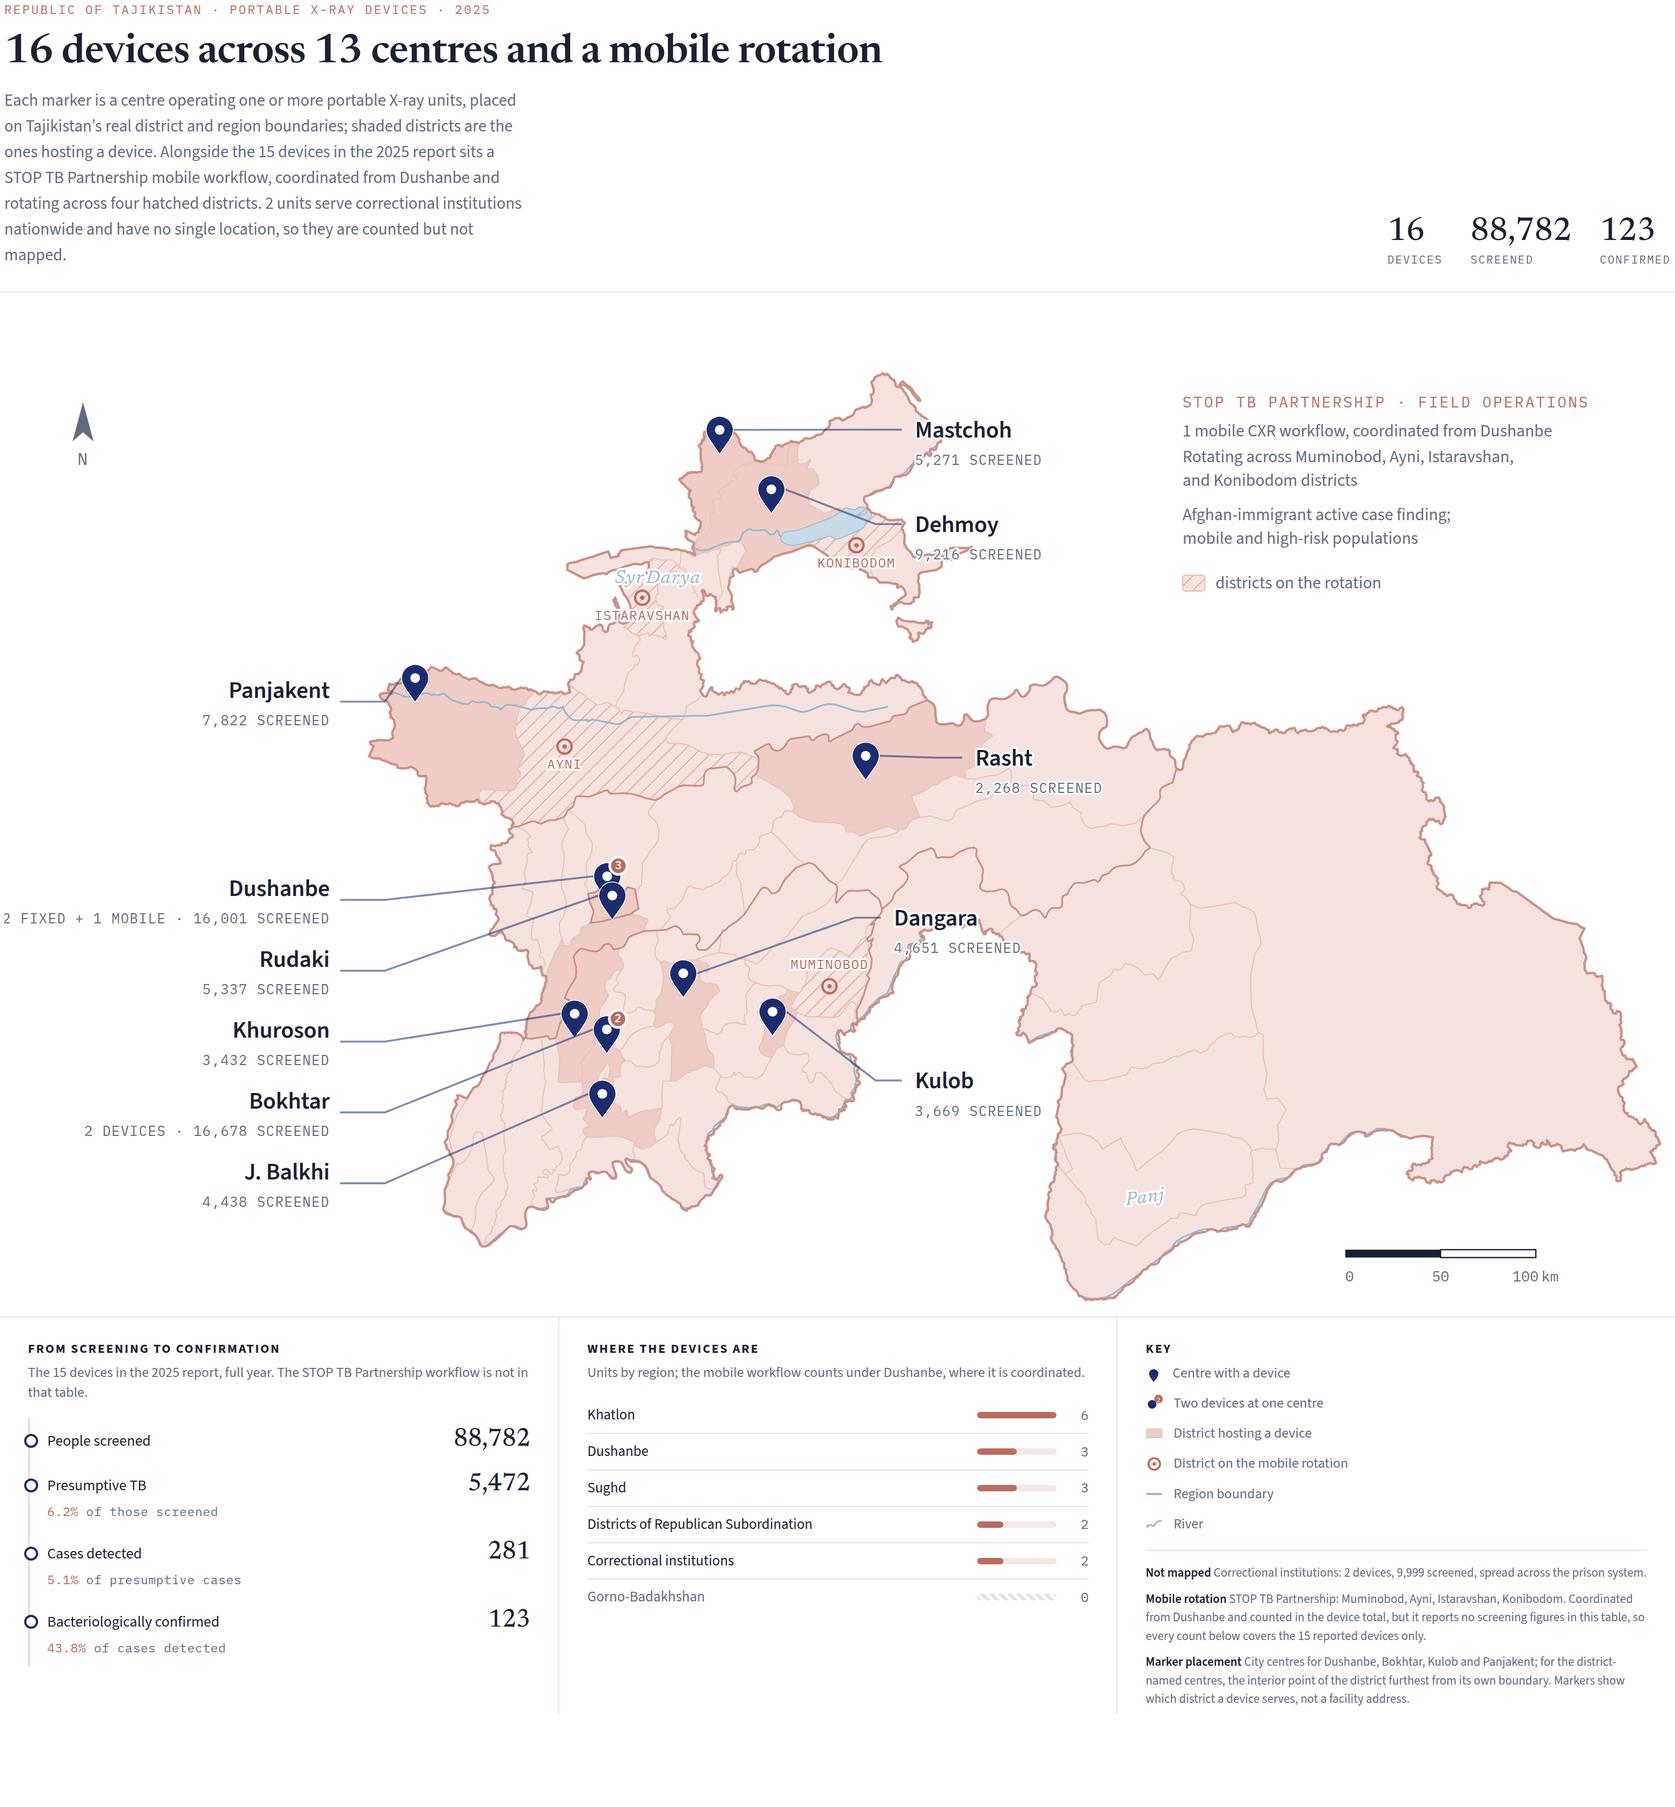
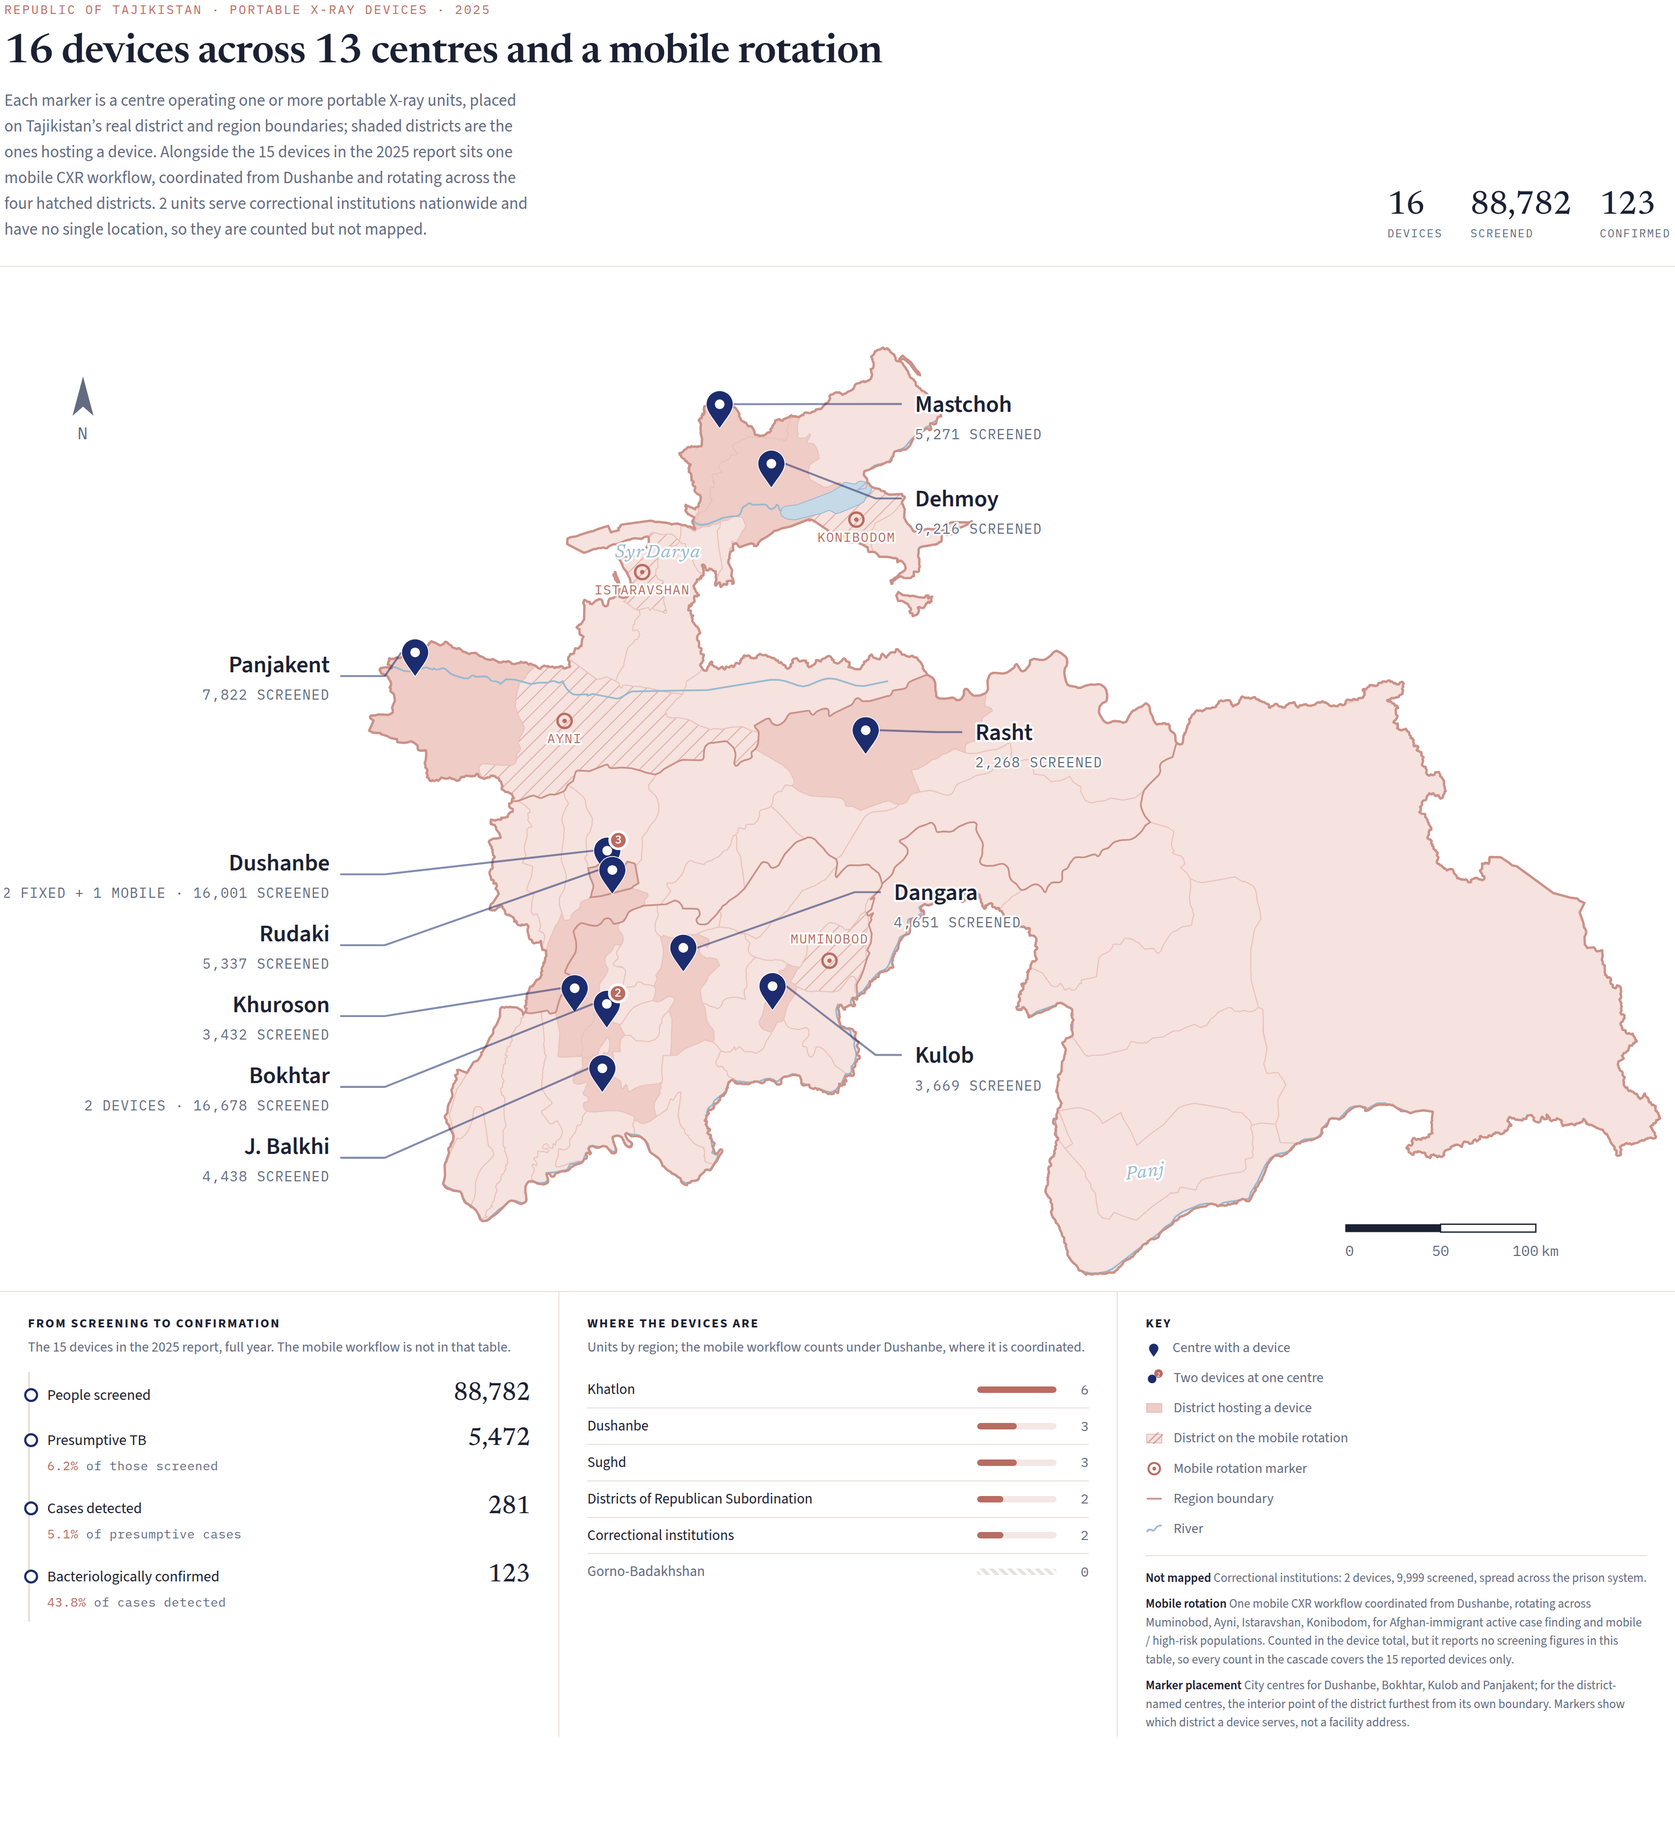
Drop partner attribution from the Tajikistan plate
Naming the funder of the mobile unit would oblige naming the funders of
the other 15, so the field-operations callout is gone from the map's
north-east corner and the partner name is out of the lede, the cascade
heading and the notes. The programme name stays in data/tj-sites.json for
reference but is never rendered.

The rotation still reads: four hatched districts with ring markers, both
now in the key, and the footer note carries the workflow's coverage and
its Afghan-immigrant and mobile / high-risk population focus.

Claude-Session: https://claude.ai/code/session_01T5yP7TBR6tDykaCEYoHf9x

diff --git a/tajikistan.html b/tajikistan.html
@@ -180,8 +180,8 @@ h1{margin:0;font-family:var(--serif);font-weight:600;font-size:clamp(27px,3.4vw,
         <h1>16 devices across 13 centres and a mobile rotation</h1>
         <p class="lede">Each marker is a centre operating one or more portable X-ray units, placed on
           Tajikistan&rsquo;s real district and region boundaries; shaded districts are the ones hosting a
-          device. Alongside the 15 devices in the 2025 report sits a STOP TB Partnership mobile
-          workflow, coordinated from Dushanbe and rotating across four hatched districts.
+          device. Alongside the 15 devices in the 2025 report sits one mobile CXR
+          workflow, coordinated from Dushanbe and rotating across the four hatched districts.
           2 units serve correctional institutions nationwide and have no single location,
           so they are counted but not mapped.</p>
       </div>
@@ -285,12 +285,6 @@ h1{margin:0;font-family:var(--serif);font-weight:600;font-size:clamp(27px,3.4vw,
   <g class="pin" transform="translate(315.5 512.6)"><circle class="halo" cy="-18" r="15"/><path class="pin-body" d="M0 0c-5.5-8-10-13-10-18a10 10 0 1 1 20 0C10-13 5.5-8 0 0Z"/><circle class="pin-eye" cy="-18" r="3.7"/></g>
 </g>
   <g class="rot-mark"><circle cx="358.9" cy="475.2" r="5.4"/><circle class="rot-dot" cx="358.9" cy="475.2" r="1.7"/><text class="rot-lbl" x="358.9" y="462.2">Muminobod</text></g><g class="rot-mark"><circle cx="157.0" cy="292.5" r="5.4"/><circle class="rot-dot" cx="157.0" cy="292.5" r="1.7"/><text class="rot-lbl" x="157.0" y="309.5">Ayni</text></g><g class="rot-mark"><circle cx="216.2" cy="179.1" r="5.4"/><circle class="rot-dot" cx="216.2" cy="179.1" r="1.7"/><text class="rot-lbl" x="216.2" y="196.1">Istaravshan</text></g><g class="rot-mark"><circle cx="379.4" cy="139.1" r="5.4"/><circle class="rot-dot" cx="379.4" cy="139.1" r="1.7"/><text class="rot-lbl" x="379.4" y="156.1">Konibodom</text></g>
-  <g class="callout" transform="translate(628 34)">
-  <text class="callout-h" x="0" y="0">STOP TB Partnership &#183; field operations</text>
-  <text class="callout-t" x="0" y="22">1 mobile CXR workflow, coordinated from Dushanbe</text><text class="callout-t" x="0" y="42">Rotating across Muminobod, Ayni, Istaravshan,</text><text class="callout-t" x="0" y="60">and Konibodom districts</text><text class="callout-t" x="0" y="86">Afghan-immigrant active case finding;</text><text class="callout-t" x="0" y="104">mobile and high-risk populations</text>
-  <rect class="rot-swatch" x="0" y="128" width="17" height="12" rx="2"/>
-  <text class="callout-t" x="25" y="138">districts on the rotation</text>
-</g>
   <g class="furniture">
     <g transform="translate(-210 52)">
       <path class="compass" d="M0-22 8 8 0 1-8 8Z"/><text class="compass-n" x="0" y="26">N</text>
@@ -310,7 +304,7 @@ h1{margin:0;font-family:var(--serif);font-weight:600;font-size:clamp(27px,3.4vw,
     <div class="panels">
       <section class="panel">
         <h2>From screening to confirmation</h2>
-        <p class="hint">The 15 devices in the 2025 report, full year. The STOP TB Partnership workflow is not in that table.</p>
+        <p class="hint">The 15 devices in the 2025 report, full year. The mobile workflow is not in that table.</p>
         <div class="step"><span class="step-l">People screened</span><span class="step-v">88,782</span></div><div class="step"><span class="step-l">Presumptive TB</span><span class="step-v">5,472</span><span class="rate">6.2%<em> of those screened</em></span></div><div class="step"><span class="step-l">Cases detected</span><span class="step-v">281</span><span class="rate">5.1%<em> of presumptive cases</em></span></div><div class="step"><span class="step-l">Bacteriologically confirmed</span><span class="step-v">123</span><span class="rate">43.8%<em> of cases detected</em></span></div>
       </section>
 
@@ -326,16 +320,18 @@ h1{margin:0;font-family:var(--serif);font-weight:600;font-size:clamp(27px,3.4vw,
           <li><svg width="15" height="19" viewBox="-8 -32 16 34" aria-hidden="true"><path d="M0 0c-7.2-10.4-13-17-13-23.5a13 13 0 1 1 26 0C13-17 7.2-10.4 0 0Z" fill="var(--mark)" transform="scale(.6)"/></svg> Centre with a device</li>
           <li><svg width="16" height="16" viewBox="0 0 16 16" aria-hidden="true"><circle cx="6" cy="9" r="4" fill="var(--mark)"/><circle cx="12" cy="4" r="4" fill="var(--clay)"/><text x="12" y="7" font-size="6" fill="var(--card)" text-anchor="middle">2</text></svg> Two devices at one centre</li>
           <li><svg width="16" height="16" viewBox="0 0 16 16" aria-hidden="true"><rect x="1" y="4" width="14" height="8" fill="var(--land-site)" stroke="var(--district)"/></svg> District hosting a device</li>
-          <li><svg width="16" height="16" viewBox="0 0 16 16" aria-hidden="true"><circle cx="8" cy="8" r="5.4" fill="none" stroke="var(--clay)" stroke-width="1.8"/><circle cx="8" cy="8" r="1.7" fill="var(--clay)"/></svg> District on the mobile rotation</li>
+          <li><svg width="16" height="16" viewBox="0 0 16 16" aria-hidden="true"><rect x="1" y="4" width="14" height="8" fill="#F6E2DE" stroke="var(--district)"/><path d="M2 12 12 2M7 13 16 4" stroke="var(--clay)" stroke-width="1.2" opacity=".55"/></svg> District on the mobile rotation</li>
+          <li><svg width="16" height="16" viewBox="0 0 16 16" aria-hidden="true"><circle cx="8" cy="8" r="5.4" fill="none" stroke="var(--clay)" stroke-width="1.8"/><circle cx="8" cy="8" r="1.7" fill="var(--clay)"/></svg> Mobile rotation marker</li>
           <li><svg width="16" height="16" viewBox="0 0 16 16" aria-hidden="true"><path d="M1 8h14" stroke="var(--region)" stroke-width="1.6"/></svg> Region boundary</li>
           <li><svg width="16" height="16" viewBox="0 0 16 16" aria-hidden="true"><path d="M1 11c4-6 5 2 8-3 1.5-2.5 3-3 6-3" stroke="var(--water-line)" stroke-width="1.6" fill="none"/></svg> River</li>
         </ul>
         <div class="notes">
           <p><b>Not mapped</b> Correctional institutions: 2 devices,
             9,999 screened, spread across the prison system.</p>
-          <p><b>Mobile rotation</b> STOP TB Partnership: Muminobod, Ayni, Istaravshan, Konibodom. Coordinated from Dushanbe and counted
-            in the device total, but it reports no screening figures in this table, so every count below
-            covers the 15 reported devices only.</p>
+          <p><b>Mobile rotation</b> One mobile CXR workflow coordinated from Dushanbe, rotating across
+            Muminobod, Ayni, Istaravshan, Konibodom, for Afghan-immigrant active case finding and mobile / high-risk populations.
+            Counted in the device total, but it reports no screening figures in this table, so every
+            count in the cascade covers the 15 reported devices only.</p>
           <p><b>Marker placement</b> City centres for Dushanbe, Bokhtar, Kulob and Panjakent; for the
             district-named centres, the interior point of the district furthest from its own boundary.
             Markers show which district a device serves, not a facility address.</p>

diff --git a/tools/template_tj.html b/tools/template_tj.html
@@ -180,8 +180,8 @@ h1{margin:0;font-family:var(--serif);font-weight:600;font-size:clamp(27px,3.4vw,
         <h1>$devices devices across $centres centres and a mobile rotation</h1>
         <p class="lede">Each marker is a centre operating one or more portable X-ray units, placed on
           Tajikistan&rsquo;s real district and region boundaries; shaded districts are the ones hosting a
-          device. Alongside the $reported_devices devices in the 2025 report sits a $programme mobile
-          workflow, coordinated from $rot_base and rotating across four hatched districts.
+          device. Alongside the $reported_devices devices in the 2025 report sits one mobile CXR
+          workflow, coordinated from $rot_base and rotating across the four hatched districts.
           $unmapped_devices units serve correctional institutions nationwide and have no single location,
           so they are counted but not mapped.</p>
       </div>
@@ -200,7 +200,7 @@ h1{margin:0;font-family:var(--serif);font-weight:600;font-size:clamp(27px,3.4vw,
     <div class="panels">
       <section class="panel">
         <h2>From screening to confirmation</h2>
-        <p class="hint">The $reported_devices devices in the 2025 report, full year. The $programme workflow is not in that table.</p>
+        <p class="hint">The $reported_devices devices in the 2025 report, full year. The mobile workflow is not in that table.</p>
         $cascade
       </section>
 
@@ -216,16 +216,18 @@ h1{margin:0;font-family:var(--serif);font-weight:600;font-size:clamp(27px,3.4vw,
           <li><svg width="15" height="19" viewBox="-8 -32 16 34" aria-hidden="true"><path d="M0 0c-7.2-10.4-13-17-13-23.5a13 13 0 1 1 26 0C13-17 7.2-10.4 0 0Z" fill="var(--mark)" transform="scale(.6)"/></svg> Centre with a device</li>
           <li><svg width="16" height="16" viewBox="0 0 16 16" aria-hidden="true"><circle cx="6" cy="9" r="4" fill="var(--mark)"/><circle cx="12" cy="4" r="4" fill="var(--clay)"/><text x="12" y="7" font-size="6" fill="var(--card)" text-anchor="middle">2</text></svg> Two devices at one centre</li>
           <li><svg width="16" height="16" viewBox="0 0 16 16" aria-hidden="true"><rect x="1" y="4" width="14" height="8" fill="var(--land-site)" stroke="var(--district)"/></svg> District hosting a device</li>
-          <li><svg width="16" height="16" viewBox="0 0 16 16" aria-hidden="true"><circle cx="8" cy="8" r="5.4" fill="none" stroke="var(--clay)" stroke-width="1.8"/><circle cx="8" cy="8" r="1.7" fill="var(--clay)"/></svg> District on the mobile rotation</li>
+          <li><svg width="16" height="16" viewBox="0 0 16 16" aria-hidden="true"><rect x="1" y="4" width="14" height="8" fill="#F6E2DE" stroke="var(--district)"/><path d="M2 12 12 2M7 13 16 4" stroke="var(--clay)" stroke-width="1.2" opacity=".55"/></svg> District on the mobile rotation</li>
+          <li><svg width="16" height="16" viewBox="0 0 16 16" aria-hidden="true"><circle cx="8" cy="8" r="5.4" fill="none" stroke="var(--clay)" stroke-width="1.8"/><circle cx="8" cy="8" r="1.7" fill="var(--clay)"/></svg> Mobile rotation marker</li>
           <li><svg width="16" height="16" viewBox="0 0 16 16" aria-hidden="true"><path d="M1 8h14" stroke="var(--region)" stroke-width="1.6"/></svg> Region boundary</li>
           <li><svg width="16" height="16" viewBox="0 0 16 16" aria-hidden="true"><path d="M1 11c4-6 5 2 8-3 1.5-2.5 3-3 6-3" stroke="var(--water-line)" stroke-width="1.6" fill="none"/></svg> River</li>
         </ul>
         <div class="notes">
           <p><b>Not mapped</b> Correctional institutions: $unmapped_devices devices,
             $unmapped_screened screened, spread across the prison system.</p>
-          <p><b>Mobile rotation</b> $programme: $rot_districts. Coordinated from $rot_base and counted
-            in the device total, but it reports no screening figures in this table, so every count below
-            covers the $reported_devices reported devices only.</p>
+          <p><b>Mobile rotation</b> One mobile CXR workflow coordinated from $rot_base, rotating across
+            $rot_districts, for Afghan-immigrant active case finding and mobile / high-risk populations.
+            Counted in the device total, but it reports no screening figures in this table, so every
+            count in the cascade covers the $reported_devices reported devices only.</p>
           <p><b>Marker placement</b> City centres for Dushanbe, Bokhtar, Kulob and Panjakent; for the
             district-named centres, the interior point of the district furthest from its own boundary.
             Markers show which district a device serves, not a facility address.</p>

diff --git a/tools/build_tj_map.py b/tools/build_tj_map.py
@@ -102,21 +102,6 @@ for d in ROT["districts"]:
         f'<circle class="rot-dot" cx="{d["x"]:.1f}" cy="{d["y"]:.1f}" r="1.7"/>'
         f'<text class="rot-lbl" x="{d["x"] + dx:.1f}" y="{d["y"] + dy:.1f}">{esc(d["name"])}</text></g>')
 
-cx, cy = 628, 34
-callout_lines = [
-    (0, f'{ROT["devices"]} mobile CXR workflow, coordinated from {ROT["base"]}'),
-    (20, "Rotating across " + ", ".join(d["name"] for d in ROT["districts"][:3]) + ","),
-    (38, "and " + ROT["districts"][3]["name"] + " districts"),
-    (64, "Afghan-immigrant active case finding;"),
-    (82, "mobile and high-risk populations"),
-]
-callout = f'''<g class="callout" transform="translate({cx} {cy})">
-  <text class="callout-h" x="0" y="0">{esc(ROT["programme"])} &#183; field operations</text>
-  {"".join(f'<text class="callout-t" x="0" y="{22 + dy}">{esc(t)}</text>' for dy, t in callout_lines)}
-  <rect class="rot-swatch" x="0" y="128" width="17" height="12" rx="2"/>
-  <text class="callout-t" x="25" y="138">districts on the rotation</text>
-</g>'''
-
 km_bar = 100 / NAT["kmPerPt"]
 lakes = "".join(f'<path class="lake" d="{l["d"]}"/>' for l in NAT["lakes"])
 national = f'''<svg class="map-svg" viewBox="-{GUTTER} -42 {NAT["width"] + GUTTER:.0f} {NAT["height"] + 42:.0f}"
@@ -145,7 +130,6 @@ national = f'''<svg class="map-svg" viewBox="-{GUTTER} -42 {NAT["width"] + GUTTE
 {"".join(gutter_label(BY[k]) for k in GUTTER_SITES)}
 {"".join(inside_label(BY[k]) for k in INSIDE)}
   {"".join(rot_marks)}
-  {callout}
   <g class="furniture">
     <g transform="translate(-210 52)">
       <path class="compass" d="M0-22 8 8 0 1-8 8Z"/><text class="compass-n" x="0" y="26">N</text>
@@ -204,7 +188,7 @@ html = Template(open(os.path.join(ROOT, "tools", "template_tj.html")).read()).su
     tip_data=json.dumps(tip, separators=(",", ":")),
     devices=total["devices"], reported_devices=reported_devices,
     centres=sum(len(s["no"].split(",")) for s in SITES) + len(UNMAPPED),
-    programme=ROT["programme"], rot_base=ROT["base"],
+    rot_base=ROT["base"],
     rot_districts=", ".join(d["name"] for d in ROT["districts"]),
     screened=n(total["screened"]), confirmed=n(total["confirmed"]),
     unmapped_devices=sum(u["devices"] for u in UNMAPPED),

diff --git a/README.md b/README.md
@@ -69,7 +69,7 @@ Neither script needs anything outside the standard library.
 ## Tajikistan portable X-ray devices
 
 Built from the 2025 report on portable X-ray activity — 15 devices across 13 reporting centres —
-plus one STOP TB Partnership mobile workflow added on top of that table.
+plus one mobile CXR workflow added on top of that table.
 
 | Path | What it is |
 | --- | --- |
@@ -105,7 +105,9 @@ python3 tools/build_tj_map.py
 
 * **Correctional institutions (2 devices, 9,999 screened) are counted but not mapped** — they
   are deployed across the prison system rather than at one location.
-* **The STOP TB Partnership workflow is not in the report table.** It is 1 mobile CXR unit
+* **The extra mobile workflow is not in the report table.** The plate carries no partner
+  attribution — naming the funder of one unit would oblige naming the funders of the other 15 —
+  so `programme` is held in `data/tj-sites.json` for reference but never rendered. It is 1 mobile CXR unit
   coordinated from Dushanbe, rotating across Muminobod, Ayni, Istaravshan and Konibodom (the
   boundary data's spellings of Muminabad and Kanibadam), targeting Afghan-immigrant active case
   finding and mobile/high-risk populations. It counts toward the 16-device total and toward
